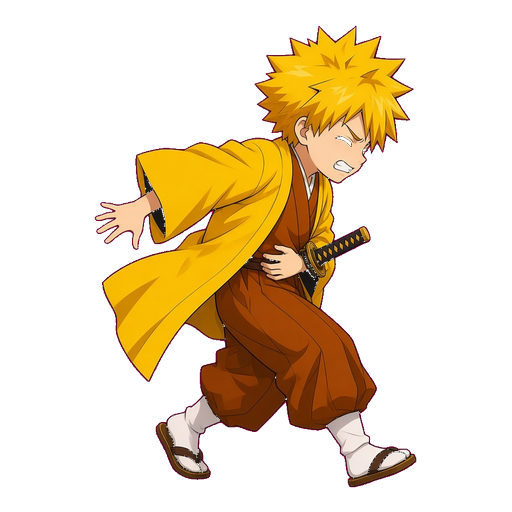
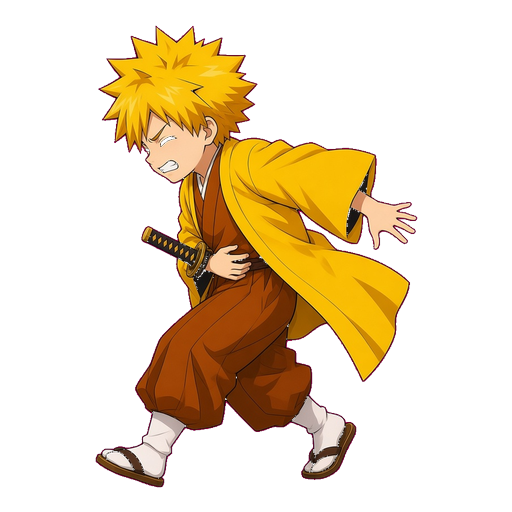
fix(art): espelha combate do trio para a esquerda
Frames que nasciam olhando direita agora batem no invariante do player.gd (arte esquerda, flip_h se facing > 0).

diff --git a/assets/PACK-PLAYTEST-TRIO-MANIFEST.md b/assets/PACK-PLAYTEST-TRIO-MANIFEST.md
@@ -23,7 +23,7 @@ Sheets 7/4/3 do Tanjiro **não** foram copiados pro trio — piso jogável prime
 2. Poses = edit da base daquele id.  
 3. Imagine entregou **JPEG** com extensão `.png` e fundo rosa-magenta (não `#FF00FF` puro).  
 4. `tools/chroma_character_pack.py`: converte PNG real, chroma expandido (`hot_pink` + skill), canvas hub 640×900 / combate 512×512.  
-5. Combate espelhado no pós: `player.gd` faz `flip_h` quando `facing > 0`, então a arte canônica olha **esquerda** (como o Tanjiro).
+5. Combate canônico olha **esquerda** (Pillow `FLIP_LEFT_RIGHT` nos frames que nasciam à direita: Zenitsu idle/run/hurt, Nezuko run). `player.gd` `flip_h` só se `facing > 0`.
 
 ## Defeitos honestos
 
